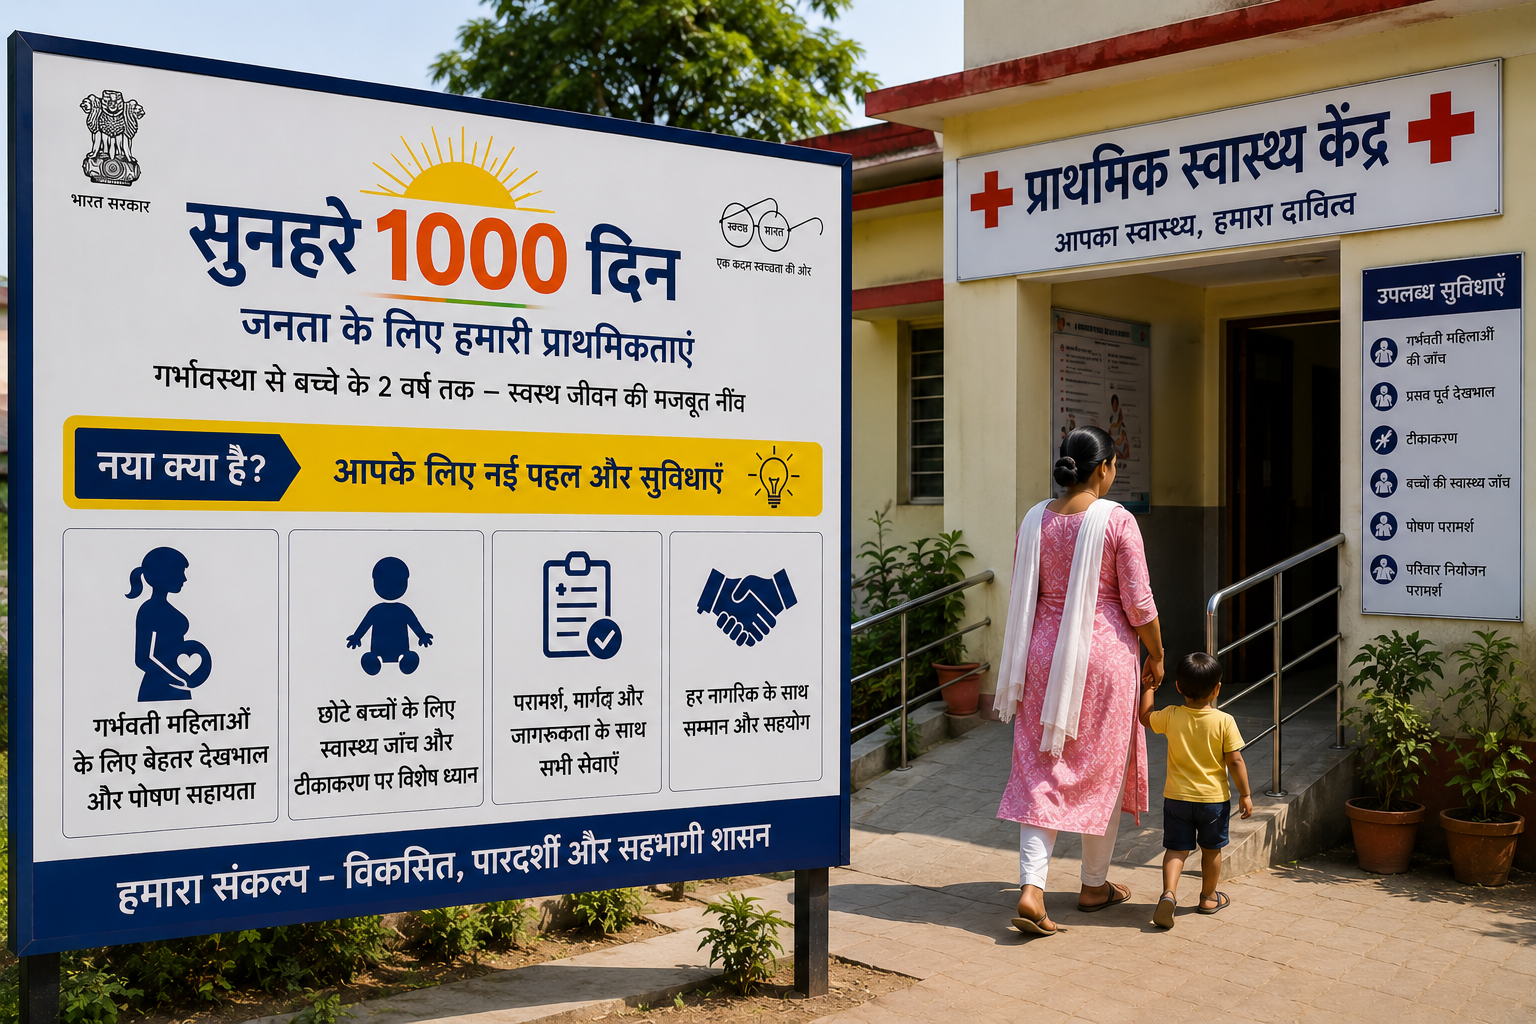
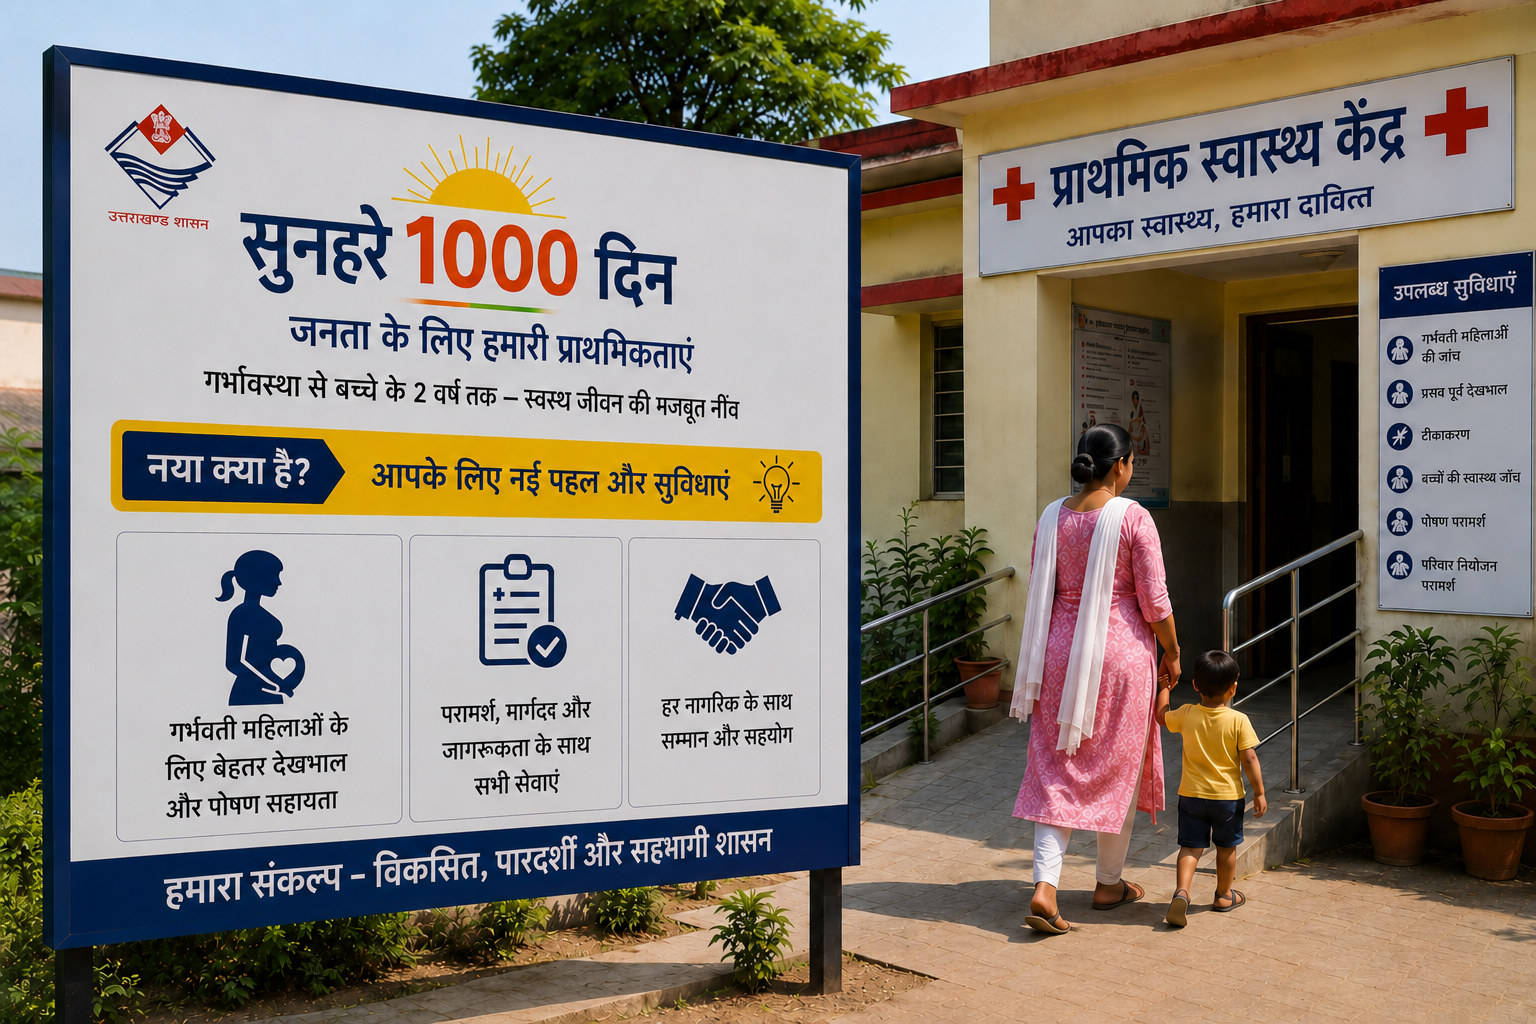
home updated

diff --git a/src/components/pages/Home.jsx b/src/components/pages/Home.jsx
@@ -40,14 +40,14 @@ function Home() {
       },
       { 
         icon: "bi-heart-pulse", 
-        title: "द्वितीय त्रैमासिक (4-6 माह)", 
+        title: "द्वितीय त्रैमासिक (3-6 माह)", 
         desc: "वृद्धि निगरानी, एनामली स्कैन, आहार सलाह",
         color: "blue",
         highlight: false
       },
       { 
         icon: "bi-activity", 
-        title: "तृतीय त्रैमासिक (7-9 माह)", 
+        title: "तृतीय त्रैमासिक (6-9 माह)", 
         desc: "जन्म तैयारी, जटिलता पूर्व तैयारी, पूरक पोषण",
         color: "green",
         highlight: true
@@ -68,25 +68,12 @@ function Home() {
       },
       { 
         icon: "bi-emoji-smile", 
-        title: "बाल्यकाल (6-24 माह)", 
+        title: "बाल्यकाल (7-2 माह)", 
         desc: "पूरक आहार, विटामिन ए, सामान्य स्वास्थ्य जाँच",
         color: "purple",
         highlight: false
       },
-      { 
-        icon: "bi-shield-check", 
-        title: "पूर्व-विद्यालय (3-6 वर्ष)", 
-        desc: "अंगनवाड़ी केंद्रों में प्रारंभिक शिक्षा एवं स्वास्थ्य जाँच",
-        color: "blue",
-        highlight: true
-      },
-      { 
-        icon: "bi-person", 
-        title: "किशोर लड़कियाँ",
-        desc: "साप्ताहिक आयरन एवं फोलिक अनुपूरण",
-        color: "saffron",
-        highlight: false
-      }
+     
     ],
 
     // Intervention Opportunities - Departmental Services
@@ -100,20 +87,8 @@ function Home() {
         items: ["THR (Take Home Ration)", "गर्म पकाया भोजन", "IFA गोलियाँ"],
         color: "saffron"
       },
-      { 
-        icon: "bi-clipboard2-pulse", 
-        title: "स्वास्थ्य जाँच", 
-        desc: "नियमित ANC, PNC एवं बच्चे की स्वास्थ्य जाँच",
-        items: ["रक्तचाप माप", "वज़न माप", "हामोग्लोबिन"],
-        color: "green"
-      },
-      { 
-        icon: "bi-shield-plus", 
-        title: "टीकाकरण योजना", 
-        desc: " MHCV, DPT, OPV, BCG, Rotavirus, PCV पूरा कवरेज",
-        items: ["12 bie ज़रूरी टीके", "विशेषज्ञ टीकाकरण", "अपडेट रजिस्ट्री"],
-        color: "blue"
-      },
+    
+    
       { 
         icon: "bi-bank", 
         title: "वित्तीय सहायता", 
@@ -270,7 +245,7 @@ function Home() {
 
             <Row className="g-3">
               {content.lifeStages.map((stage, index) => (
-                <Col md={3} sm={6} key={index}>
+                <Col md={3} sm={6} lg={3}key={index}>
                   <Card className={`life-card h-100 border-0 shadow-sm transition-hover ${stage.highlight ? 'highlight-border' : ''}`}>
                     <Card.Body className="text-center p-3">
                       <div className={`icon-wrapper icon-${stage.color} icon-sm mx-auto mb-2`}>
@@ -296,7 +271,7 @@ function Home() {
 
             <Row className="g-4">
               {content.services.map((service, index) => (
-                <Col md={6} key={index}>
+                <Col md={6} lg={6} key={index}>
                   <Card className={`service-card h-100 border-0 shadow-sm`}>
                     <Card.Body className="p-4">
                       <div className="d-flex align-items-start gap-3">
